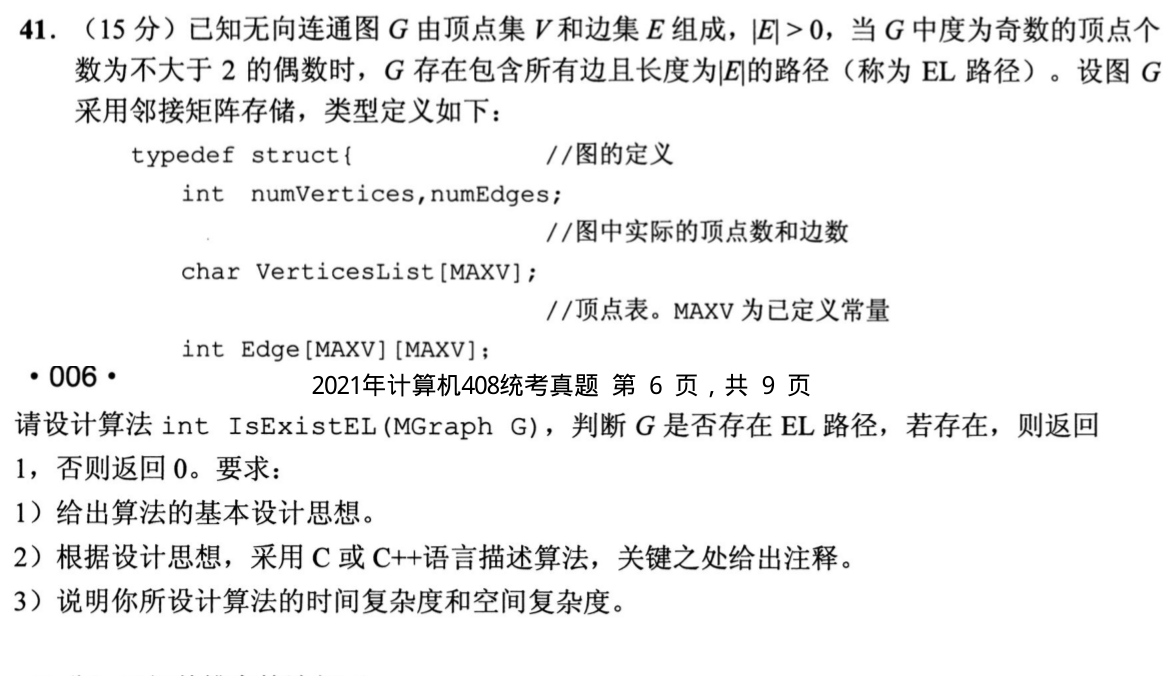
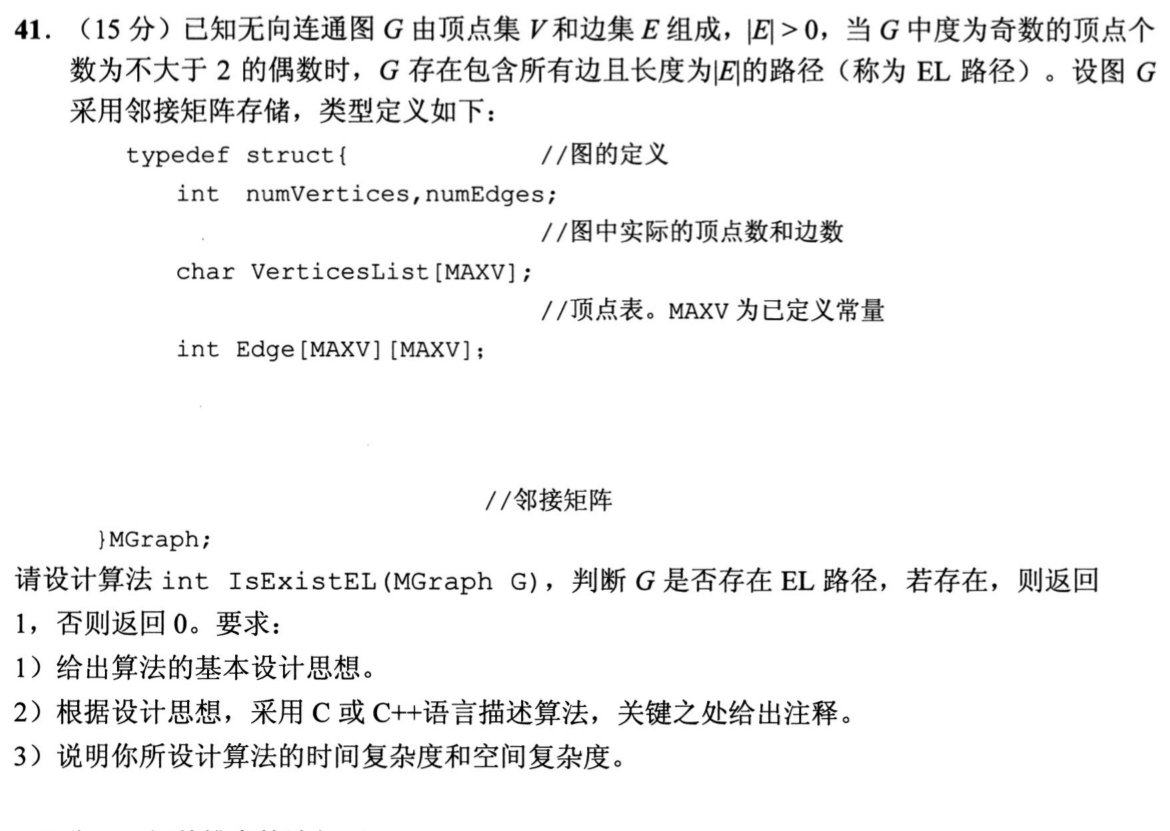
questions: finish safe written-image cropping
Implemented:
- restored 2017-41 and 2013-44 from reviewed PDF boundaries
- removed isolated trailing page footers and bottom whitespace without deleting internal rows
- recorded dimensions and changed files in a crop audit

Why:
- large-question pages retained page numbers and excessive tail whitespace
- sparse diagrams and question internals must remain intact

Verified:
- 119 written-question PNG files decode successfully
- crop audit covers every 2009-2025 question 41-47
- full Python unit test suite passes

Generated with Codex

diff --git a/src/0916.md b/src/0916.md
@@ -23,13 +23,13 @@
 ### 02 · 2015-42
 
 <div style="max-width:100%; max-height:min(90vh, 72em); overflow:auto;">
-<img src="../bank/2015/q42.png" alt="2015-42" style="display:block; width:32.88em; max-width:none; height:auto;">
+<img src="../bank/2015/q42.png" alt="2015-42" style="display:block; width:37.12em; max-width:none; height:auto;">
 </div>
 
 ### 03 · 2021-41
 
 <div style="max-width:100%; max-height:min(90vh, 72em); overflow:auto;">
-<img src="../bank/2021/q41.png" alt="2021-41" style="display:block; width:33.06em; max-width:none; height:auto;">
+<img src="../bank/2021/q41.png" alt="2021-41" style="display:block; width:32.88em; max-width:none; height:auto;">
 </div>
 
 ### 04 · 2023-41
